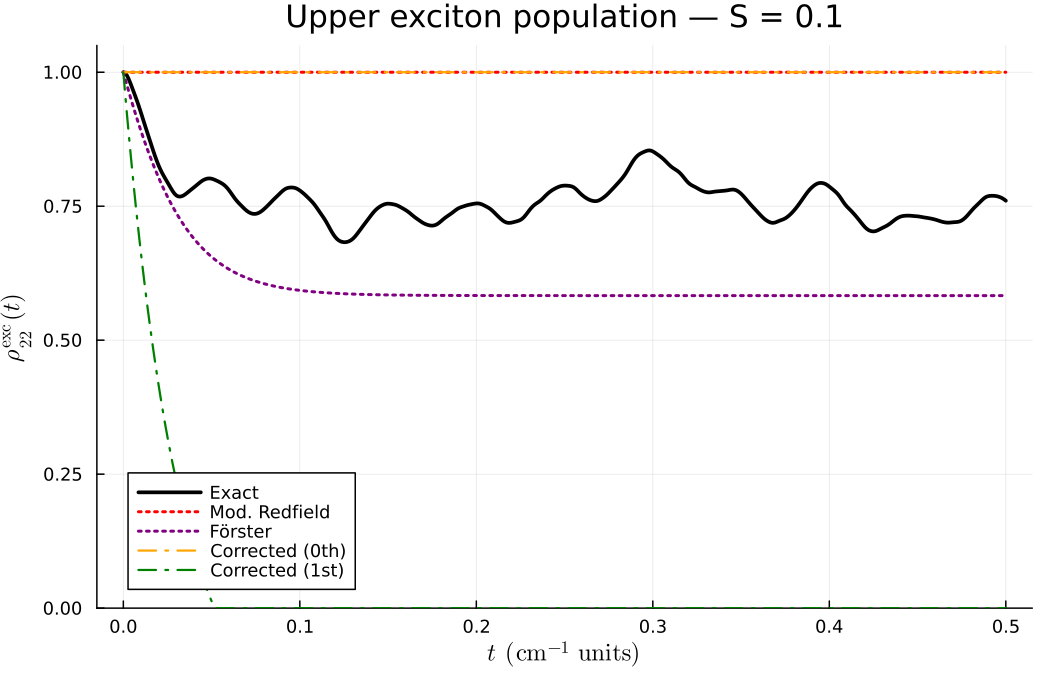
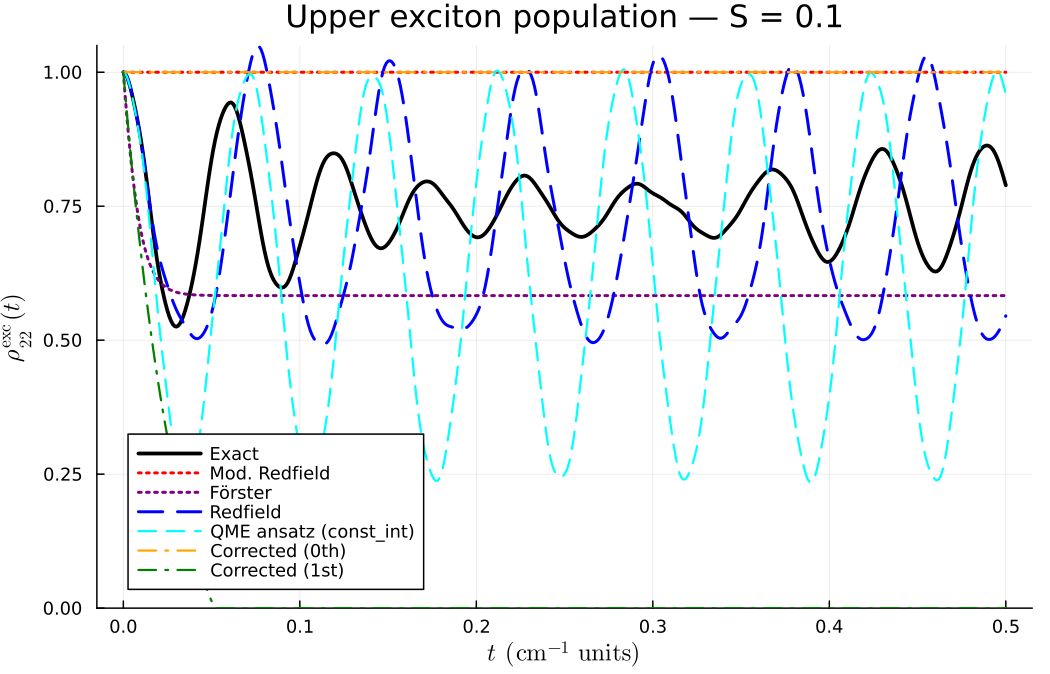
#111 Add Redfield and QME ansatz to the comparison plots
With the solver fixes (#107, #109) and speed-up (#112), both run on the
full benchmark (nvib = 5, t_max = 0.5). The plots are regenerated with
the corrected Hamiltonian and Huang-Rhys convention (#102, #104), and
the discussion is rewritten from the new results: the second-order QMEs
follow the exact dynamics through the first oscillation but cannot
dephase with a single undamped mode, while the rate-based methods only
give an envelope.

diff --git a/docs/src/tutorials/comparison.md b/docs/src/tutorials/comparison.md
@@ -231,67 +231,74 @@ For the exact evolution, the full system+bath initial state is
 
 ![Comparison S=0.01](../assets/comparison_S0p01.png)
 
-At weak coupling the upper exciton is nearly stationary — there is very little
-population transfer. All methods agree that the population remains close to 1.
-The exact solution shows tiny oscillations from coherent beating. Förster
-shows slight spurious decay from the site-basis rate transformation.
+At weak coupling the upper exciton is nearly stationary: the **exact**
+population oscillates between ``\approx 0.92`` and 1 (vibronic beating) and
+slowly dephases.
+- **Redfield** and the **QME ansatz** (`:const_int`) reproduce these
+  oscillations, with a small phase drift and without the slow damping.
+- **Modified Redfield** and the **corrected kernel** (both orders) predict
+  no transfer at all.
+- **Förster** decays spuriously to ``\approx 0.58``.
 
 ### Moderate coupling (``S = 0.05``)
 
 ![Comparison S=0.05](../assets/comparison_S0p05.png)
 
-At ``S = 0.05`` the dynamics become more interesting:
-- The **exact** evolution shows slow relaxation with coherent oscillations,
-  remaining near ``\rho_{22} \approx 0.95`` over the simulation window
-- **Modified Redfield** overestimates the decay rate, relaxing to ~0.5
-- **Förster** also decays too fast, reaching ~0.6
-- The **corrected kernel (0th order)** produces no transfer — the
-  zeroth-order rates are too small
-- The **corrected kernel (1st order)** overcorrects and decays unphysically fast
+- The **exact** population drops to ``\approx 0.7`` within ``t \approx 0.03``
+  and then oscillates, damped, around ``\approx 0.85``.
+- **Redfield** and the **QME ansatz** follow the initial drop and the first
+  minimum closely, but afterwards keep oscillating with undamped amplitude
+  (Redfield between ``\approx 0.68`` and 1, the ansatz between
+  ``\approx 0.58`` and 1).
+- **Modified Redfield** relaxes to ``\approx 0.51`` and **Förster** to
+  ``\approx 0.58``; neither shows the oscillations.
+- The **corrected kernel** gives no transfer at zeroth order, and at first
+  order a linear decay that crosses zero (unphysical).
 
 ### Intermediate coupling (``S = 0.1``)
 
 ![Comparison S=0.1](../assets/comparison_S0p1.png)
 
-At ``S = 0.1``:
-- The **exact** solution shows damped oscillations relaxing to ~0.75
-- **Förster** captures the early relaxation well but settles to ~0.57
-  (close to the thermal equilibrium value)
-- **Modified Redfield** and **corrected (0th)** both show no significant transfer
-- **Corrected (1st)** again overshoots
+- The **exact** population drops to ``\approx 0.53`` and oscillates around
+  ``\approx 0.75``.
+- **Redfield** still captures the first drop and oscillates between
+  ``\approx 0.5`` and 1; the **QME ansatz** overshoots strongly (down to
+  ``\approx 0.24``).
+- **Förster** relaxes to ``\approx 0.58``; **modified Redfield** and the
+  zeroth-order corrected kernel show no transfer; the first-order corrected
+  kernel drops below zero almost immediately.
 
 ### Discussion
 
-The comparison reveals several important points:
+1. **Rate-based methods only capture an envelope.** Modified Redfield,
+   Förster and the corrected kernel solve ``d\mathbf{p}/dt = R\mathbf{p}``
+   and cannot reproduce the coherent oscillations of the exact solution.
+   Their predicted transfer is also qualitatively off here: either none, or
+   relaxation to a fixed value regardless of ``S``.
 
-1. **Rate-based methods only capture the envelope.** Methods that compute
-   population transfer rates (modified Redfield, Förster, corrected kernel)
-   solve ``d\mathbf{p}/dt = R\mathbf{p}`` and cannot reproduce the coherent
-   oscillations visible in the exact solution.
+2. **The second-order QMEs are accurate at short times.** Redfield and the
+   `:const_int` ansatz follow the exact dynamics through the first
+   oscillation at every coupling strength. Their error grows with ``S``, as
+   expected for second-order theories, and the time-nonlocal ansatz degrades
+   faster than Redfield at ``S = 0.1``.
 
-2. **Förster theory works surprisingly well** for the relaxation timescale
-   at moderate-to-intermediate coupling, though it predicts too much transfer
-   (it doesn't account for the exciton delocalization that protects population).
+3. **No dephasing from a single mode.** Each molecule couples to one undamped
+   vibrational mode. With the bath frozen at equilibrium, the second-order
+   memory kernel never decays, so the QMEs oscillate indefinitely, while the
+   exact dynamics dephase through the vibronic structure of the finite bath.
+   A continuous spectral density (an infinite bath) would damp the memory.
 
-3. **The corrected memory kernel** is a perturbative correction. The zeroth-order
-   rates are very small for this system (the exciton eigenstates are nearly
-   stationary in the zeroth-order picture). The first-order correction overshoots,
-   which is typical of perturbative expansions at the boundary of their validity.
-   The `t_ref` parameter (here 0.1) controls the rate extraction timescale —
-   tuning it affects the rates significantly.
+4. **The corrected kernel** is currently evaluated as a rate model at a fixed
+   reference time `t_ref` (here 0.1). The zeroth-order rates vanish for this
+   system and the first-order correction overshoots into negative
+   populations. The time-nonlocal iterative QME with the corrected kernel
+   (thesis, Ch. 3) is not yet implemented.
 
-4. **Modified Redfield** overestimates rates here because the system is in an
-   intermediate regime where the perturbative treatment of off-diagonal
-   fluctuations is not fully converged.
-
-!!! note "Redfield and QME Ansatz"
-    The `QME_sI_Redfield` and `QME_sI_ansatz` solvers integrate a delay
-    differential equation whose memory integral runs over the whole history,
-    so their cost grows faster than linearly with ``t_\text{max}``. On this
-    benchmark (`nvib = 5`, ``t_\text{max} = 0.5``) a single run takes on the
-    order of an hour, so they are not part of the plots above. Use them on
-    shorter time windows, or see the [Solver Selection Guide](@ref) for
-    integrator and tolerance settings.
+!!! note "Runtime"
+    The memory-kernel solvers re-integrate the whole history at every step,
+    so their cost grows roughly as ``t_\text{max}^2``. Generating these plots
+    (`docs/generate_comparison_plots.jl`, `nvib = 5`, ``t_\text{max} = 0.5``)
+    takes about 30–80 minutes per coupling strength.
 
 ## Full Comparison Script
 
